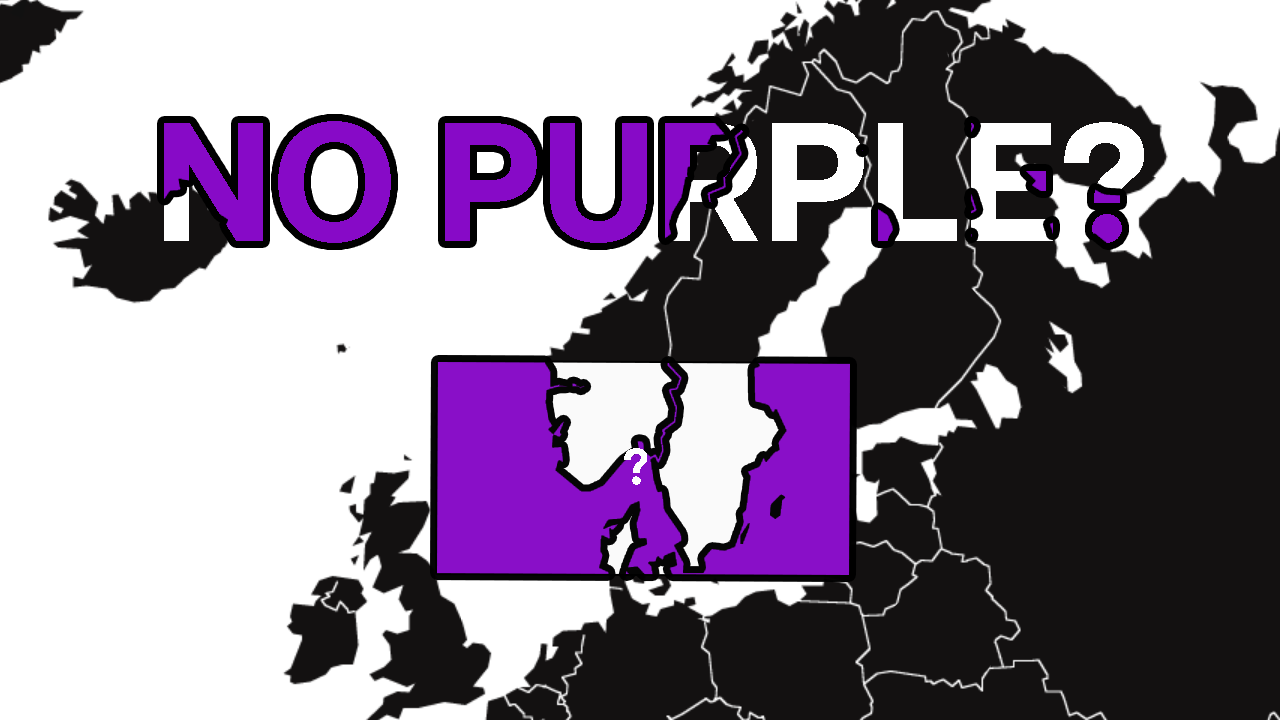
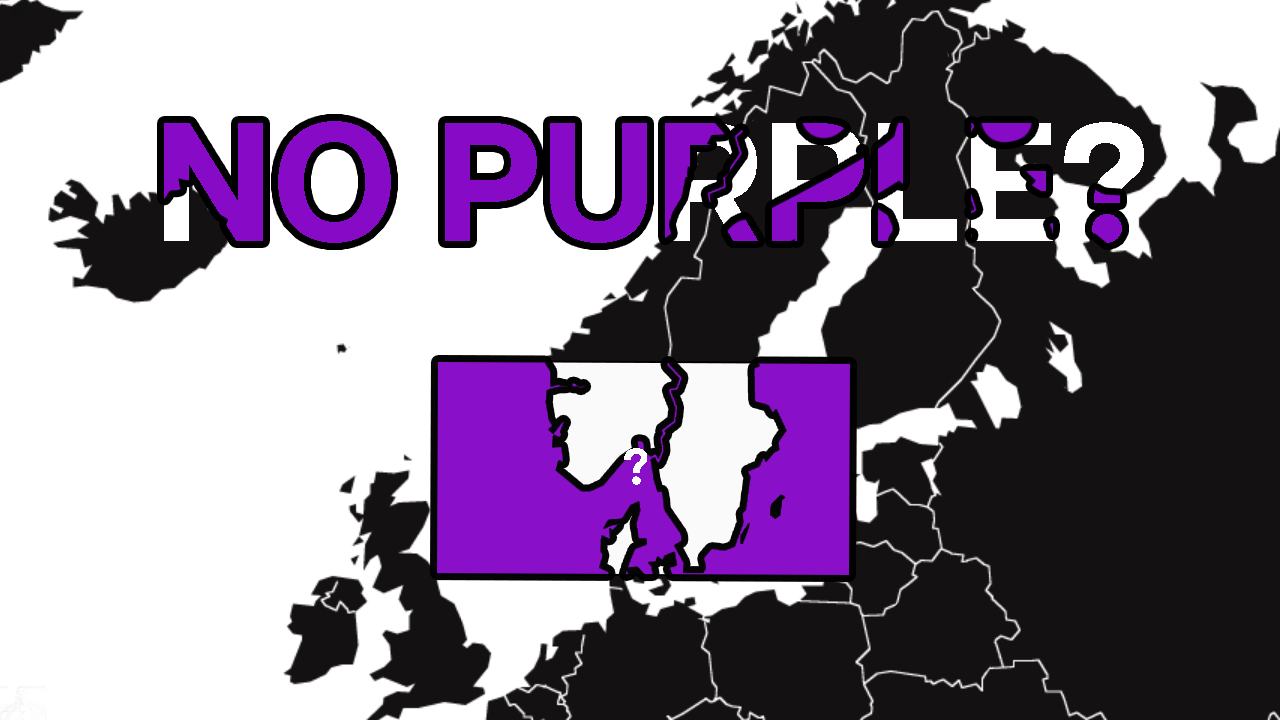
having fun with snow, added a bit of confidence + easter egg

Changed region(s): [[0.5625, 0.1528, 0.7188, 0.3361], [0.75, 0.1528, 0.8125, 0.2139], [0.625, 0.1528, 0.6562, 0.2139]]

diff --git a/src/svgComps/s3/Card.js b/src/svgComps/s3/Card.js
@@ -1,14 +1,19 @@
 import React, {useRef} from "react";
 import '../../css/styles.scss';
 import {useInView, useSpring, animated} from "@react-spring/web";
-import {Trans} from "react-i18next";
+import {Trans, useTranslation} from "react-i18next";
 import i18next from "i18next";
 
 // Notice: The text is IN the SVG in a <text>! Because it's imported from Figma with
 // Outline Text disabled to keep it SEO, copyable and to save some time
 
 function Card() {
+    // eslint-disable-next-line no-unused-vars
+    const { t, i18n } = useTranslation();
+    // updater! ^
+
     const getLanguage = () => i18next.language || window.localStorage.i18nextLng
+
 
     const [ref, isInView] = useInView({
     })

diff --git a/src/css/snow.scss b/src/css/snow.scss
@@ -33,7 +33,6 @@ $breakpoints: (phone: 320px, phoneSE: 375px, tablet: 768px, desktop: 1024px);
   animation-fill-mode: forwards;
 
 
-
   $rotation-base: 45;
   $snow-size-base: 30;
   $browser-buffer: 50;
@@ -50,7 +49,6 @@ $breakpoints: (phone: 320px, phoneSE: 375px, tablet: 768px, desktop: 1024px);
     height: 10vh;
 
   }
-
 
 
   //$rotation: 90
@@ -88,9 +86,6 @@ $breakpoints: (phone: 320px, phoneSE: 375px, tablet: 768px, desktop: 1024px);
       }
     }
   }
-
-
-
 }
 
 @keyframes snow-drop {
